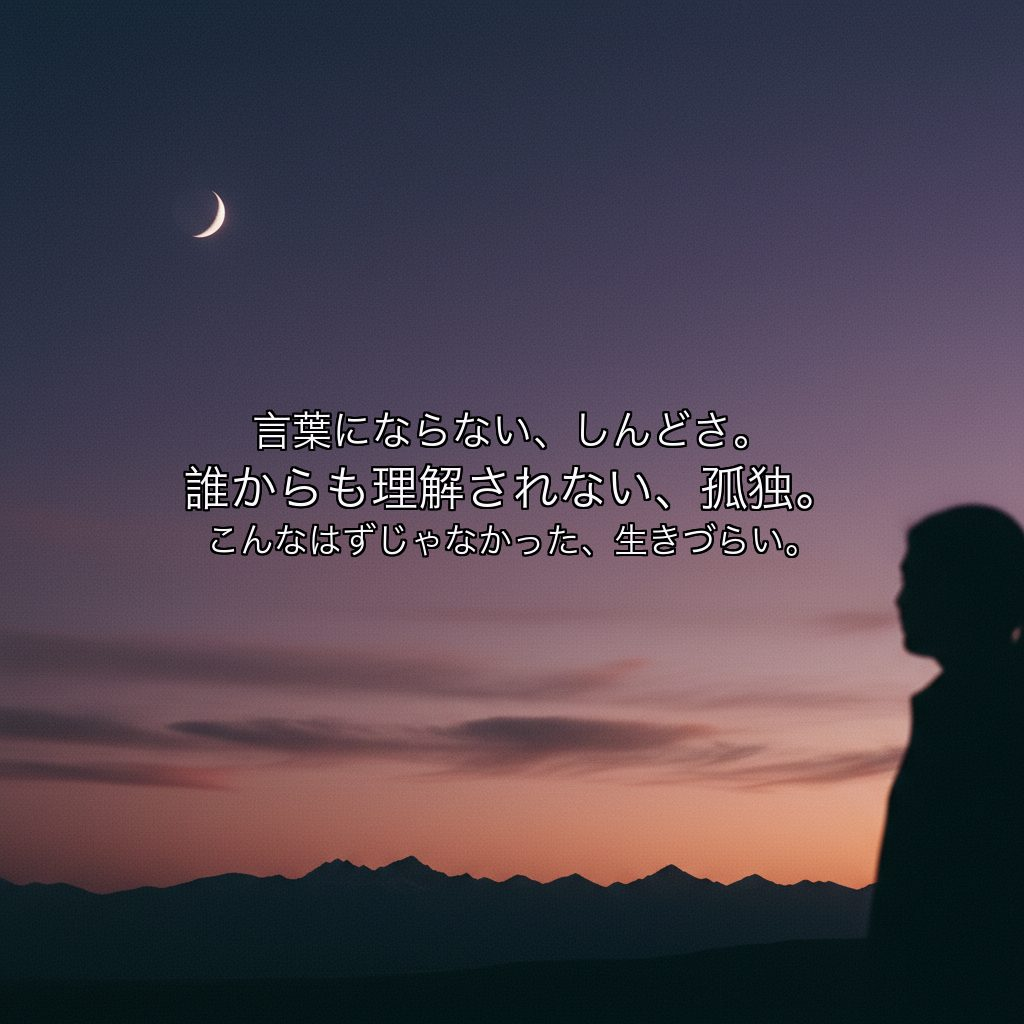
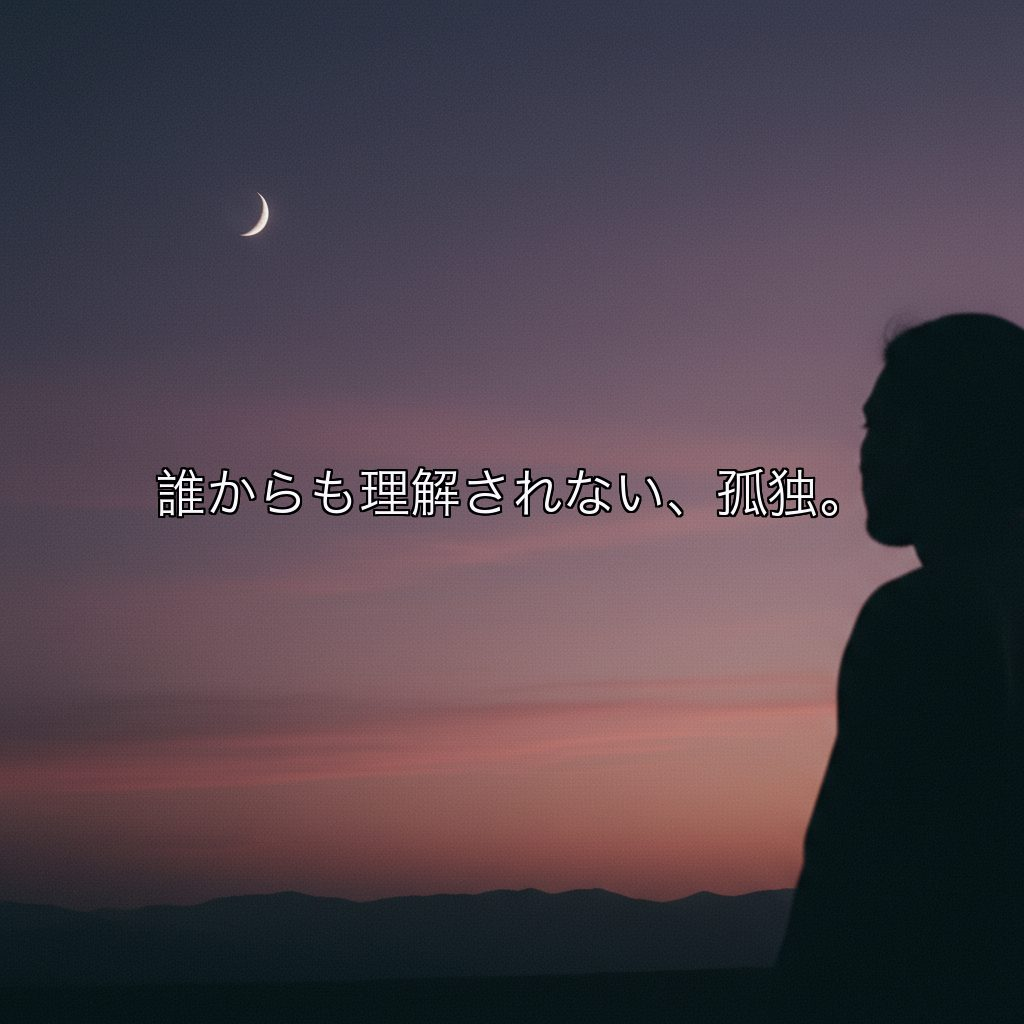
仙台オアシス v5.9: OPENINGをHERO強寄せ・s01b 1行短縮・妻も泉里香様風で登場人物統一

Changed region(s): [[0.0, 0.1562, 1.0, 0.9062], [0.1875, 0.1875, 0.2812, 0.25]]

diff --git a/sendai-oasis-storyboard.html b/sendai-oasis-storyboard.html
@@ -123,11 +123,11 @@
 <div class="wrap">
 
 <header class="hero">
-  <div class="eyebrow">RUNBIRD AI VIDEO — STORYBOARD v5.8（うずくまり削除・悩み2シーンに集約。「誰からも理解されない、孤独」はOPENING②の多行テロップに統合）</div>
+  <div class="eyebrow">RUNBIRD AI VIDEO — STORYBOARD v5.9（OPENING2枚をHEROにより強く寄せ＋s01bテロップを1行に短縮＋妻も泉里香様風で登場人物統一）</div>
   <h1>仙台オアシスカウンセリングルーム</h1>
   <div class="sub">代表：家山 めぐみ（臨床心理士・公認心理師） ／ 業種：女性専用 心理カウンセリング ／ 動画尺：50秒（YouTube広告）</div>
   <div style="margin-top:14px; padding:10px 14px; background:rgba(230,185,122,0.08); border:1px dashed var(--amber); border-radius:8px; display:inline-block; color:var(--amber); font-size:13px;">
-    主役：<b>① 子育てママ＝30代後半「泉里香様風」（特定個人を模倣しないAIオリジナル顔）＋ 4歳くらいの男の子</b>　／　<b>② 夫モラハラの妻＝40〜50代の別人物女性</b>（5/19補足返信に準拠）
+    主役：<b>登場人物統一</b>　子育てママ＝<b>泉里香様風（30代後半）</b>／夫モラハラの妻＝<b>同じ泉里香様風で少し成熟（40代前半）</b>に再生成。両シーン同一人物の連続として読める（家山様5/19返信「登場人物統一」反映）
     <br>悩みシーン：<b>① 子育てで頭を抱えるママ ＋ ② 夫モラハラで萎縮する妻（40-50代）</b>の2点だけ（家山様ご指示「5シーンではなく上記2つのシーンだけ」反映）。「誰からも理解されない、孤独」のワードはOPENING②の多行テロップに統合済
     <br>テイスト：<b>緑（入り）→ 紫トーンの暗いイメージ（悩み3シーン）→ 光が差して緑に戻る（解決）</b>　／　実写風（フォトリアル）・静止画・ゆっくり展開
     <br>BGM：<b>癒し系（フェリシテHERO 3枚の色味＋リラクゼーション会社の曲のイメージ※曲名／URL要ご共有）</b>
@@ -232,9 +232,9 @@
   </div>
   <div class="hook-card">
     <img src="sendai-oasis-images/s03_husband_lecturing.jpg" alt="悩み②">
-    <div class="title">② 夫モラハラ・妻40-50代</div>
+    <div class="title">② 夫モラハラ・妻＝同主役（40代前半）</div>
     <div class="copy">「眉間に皺で説教する夫／萎縮する妻」</div>
-    <div class="why">5/19補足で「妻は40-50代」とご指定。子育てママとは <b>別人物</b> として再生成済み。</div>
+    <div class="why">家山様5/19返信「登場人物統一」を受け、<b>子育てママと同じ泉里香様風</b>で、少し成熟した40代前半の同一人物として再生成（参考写真2枚をAI入力に渡してSCENE02と顔の連続性を担保）。</div>
   </div>
 </div>
 
@@ -256,9 +256,9 @@
   <div class="scene">
     <img src="sendai-oasis-images/s01_oasis_intro.jpg" alt="s01">
     <div class="body">
-      <div class="sec">SCENE 01 ／ 0–4s ／ OPENING①（フェリシテHERO①風・緑を見上げる）</div>
+      <div class="sec">SCENE 01 ／ 0–4s ／ OPENING①（フェリシテHERO①強寄せ・緑見上げ・中央に光）</div>
       <div class="telop">もう、一人で悩まないで下さい。<span style="color:var(--muted); font-weight:normal;">（焼込済）</span></div>
-      <div class="tags"><span>緑基調</span><span>見上げ構図</span><span>フェリシテHERO①直接寄せ</span><span>ナレーション開始</span></div>
+      <div class="tags"><span>緑基調</span><span>見上げ構図</span><span>中央に光のぬけ</span><span>フェリシテHERO①強寄せ</span><span>ナレーション開始</span></div>
       <div class="narr">…実は一人で、ずっと、悩みを抱えていませんか。</div>
     </div>
   </div>
@@ -266,14 +266,10 @@
   <div class="scene" style="border-left:3px solid #b89fd1;">
     <img src="sendai-oasis-images/s01b_night_silhouette.jpg" alt="s01b">
     <div class="body">
-      <div class="sec">SCENE 01b ／ 4–9s ／ OPENING②（フェリシテHERO②風・紫の夜空シルエット・多行テロップ）</div>
-      <div class="telop" style="line-height:1.6;">
-        言葉にならない、しんどさ。<br>
-        <b>誰からも理解されない、孤独。</b><br>
-        こんなはずじゃなかった、生きづらい。<span style="color:var(--muted); font-weight:normal;">（焼込済）</span>
-      </div>
-      <div class="tags"><span>🟣紫トーン導入</span><span>三日月＋シルエット</span><span>HERO②多行テロップ寄せ</span><span>「誰からも理解されない、孤独」組込</span></div>
-      <div class="narr">（間）言葉にならない、しんどさ。誰からも理解されない、孤独。</div>
+      <div class="sec">SCENE 01b ／ 4–7s ／ OPENING②（フェリシテHERO②強寄せ・紫の夜空シルエット・テロップ1行短縮版）</div>
+      <div class="telop"><b>誰からも理解されない、孤独。</b><span style="color:var(--muted); font-weight:normal;">（焼込済・1行に短縮）</span></div>
+      <div class="tags"><span>🟣紫トーン</span><span>三日月＋シルエット</span><span>HERO②強寄せ</span><span>テロップ1行</span></div>
+      <div class="narr">（間）誰からも理解されない、と感じる夜も。</div>
     </div>
   </div>
 
@@ -290,9 +286,9 @@
   <div class="scene" style="border-left:3px solid #b89fd1;">
     <img src="sendai-oasis-images/s03_husband_lecturing.jpg" alt="s03">
     <div class="body">
-      <div class="sec">SCENE 03 ／ 13–19s ／ PROBLEM② 夫モラハラ・妻40-50代（紫トーン）</div>
+      <div class="sec">SCENE 03 ／ 13–19s ／ PROBLEM② 夫モラハラ・妻＝同主役の40代前半（登場人物統一）</div>
       <div class="telop">「言葉にならない思いを、抱えていませんか。」</div>
-      <div class="tags"><span>🟣紫トーン</span><span>妻40-50代</span><span>夫が眉間に皺で説教</span><span>妻が萎縮</span></div>
+      <div class="tags"><span>🟣紫トーン</span><span>妻＝泉里香様風40代前半</span><span>SCENE02と同一人物の年齢違い</span><span>夫が眉間に皺で説教</span><span>妻が萎縮</span></div>
       <div class="narr">夫婦・親子関係の生きづらさ、モラハラ。</div>
     </div>
   </div>
@@ -428,7 +424,7 @@
 </div>
 
 <footer>
-  仙台オアシスカウンセリングルーム — Storyboard v5.8 ／ Updated 2026-05-19 ／ RUNBIRD AI Video
+  仙台オアシスカウンセリングルーム — Storyboard v5.9 ／ Updated 2026-05-19 ／ RUNBIRD AI Video
 </footer>
 
 </div>
